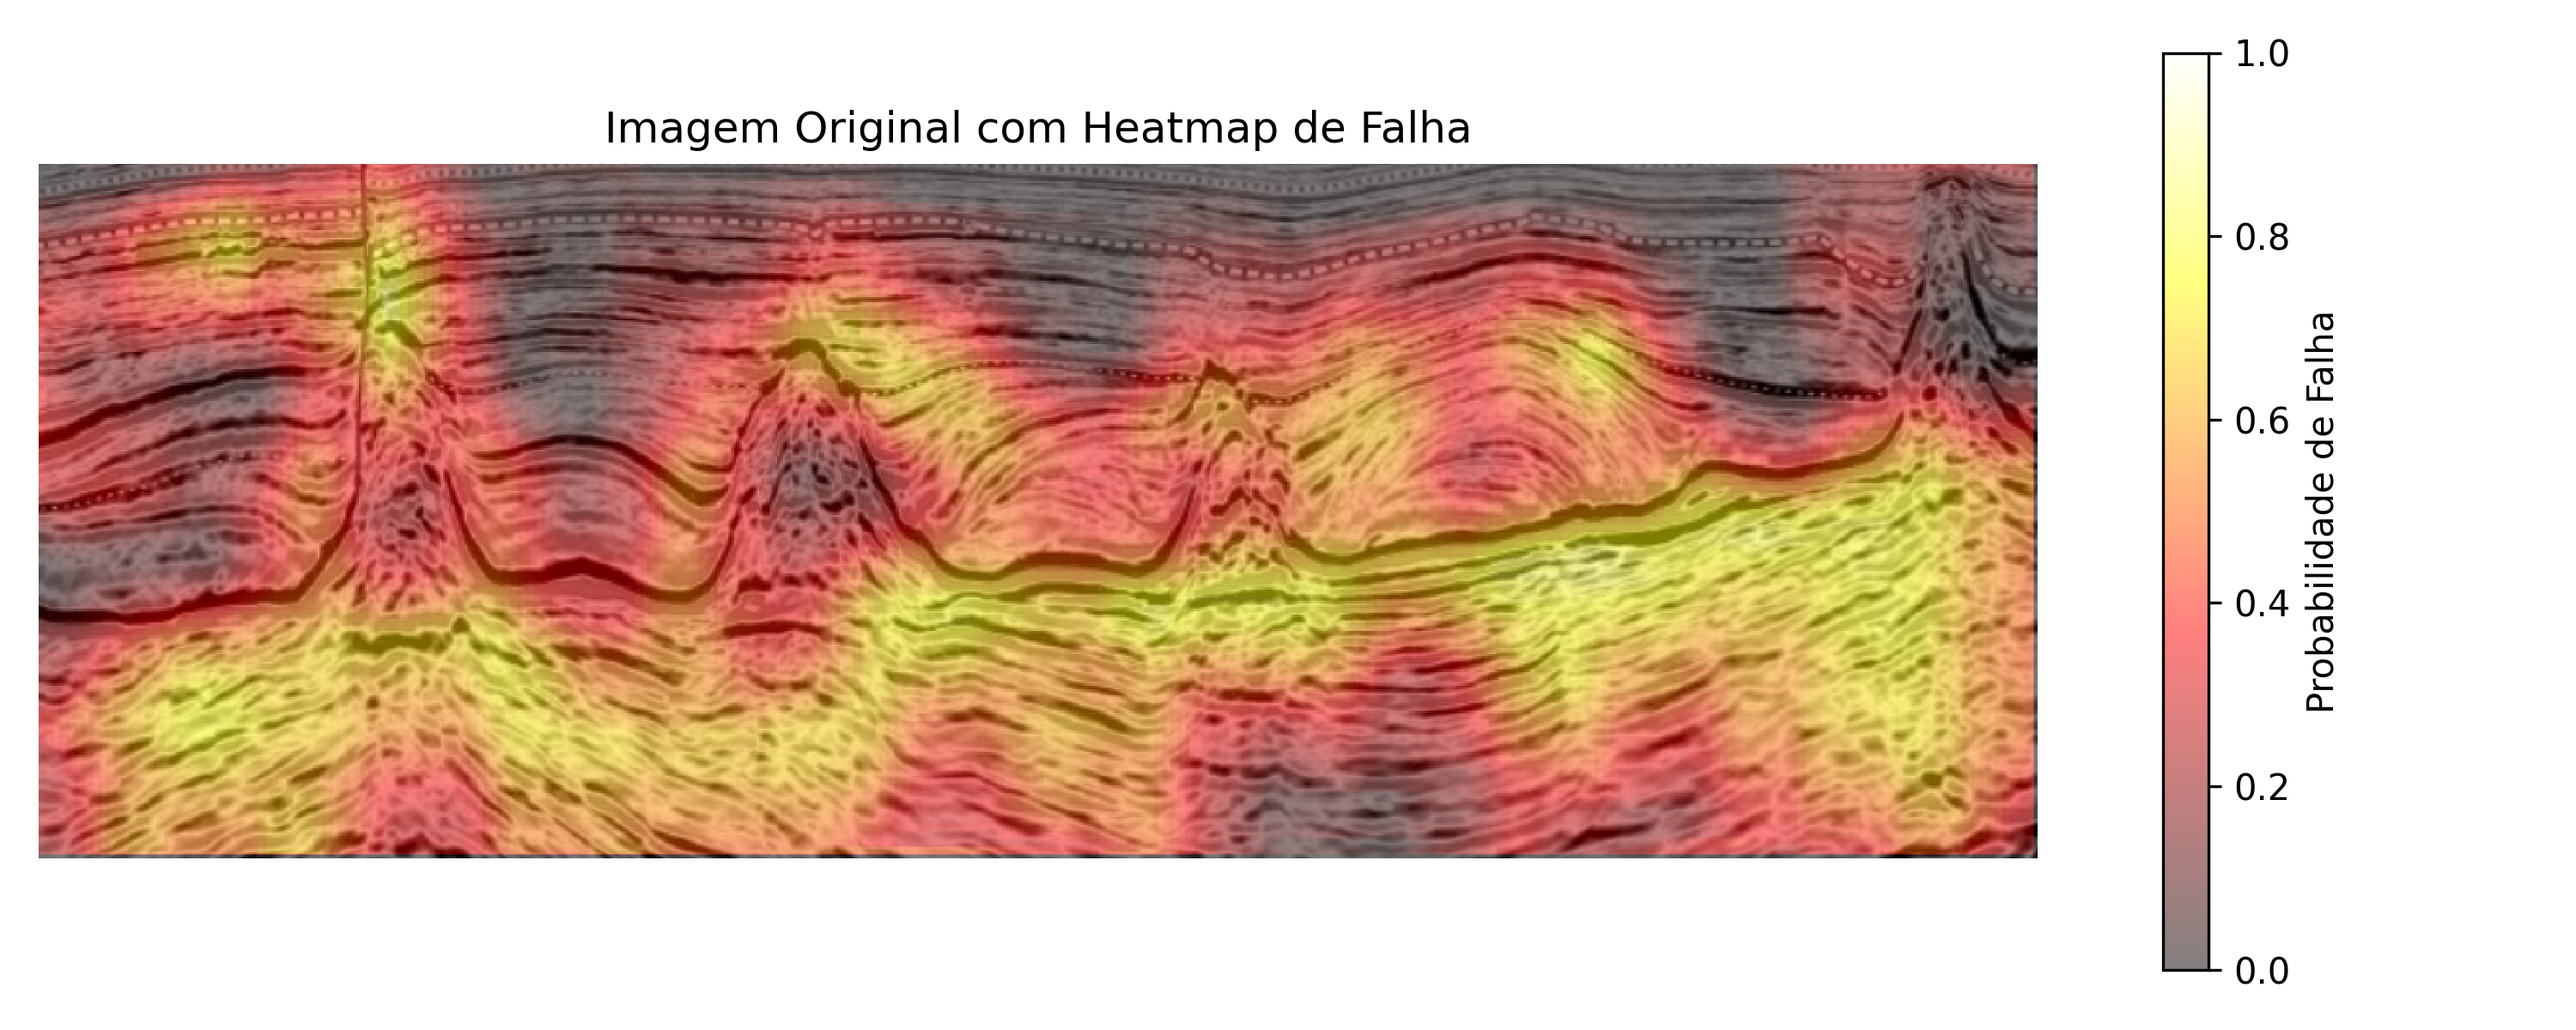
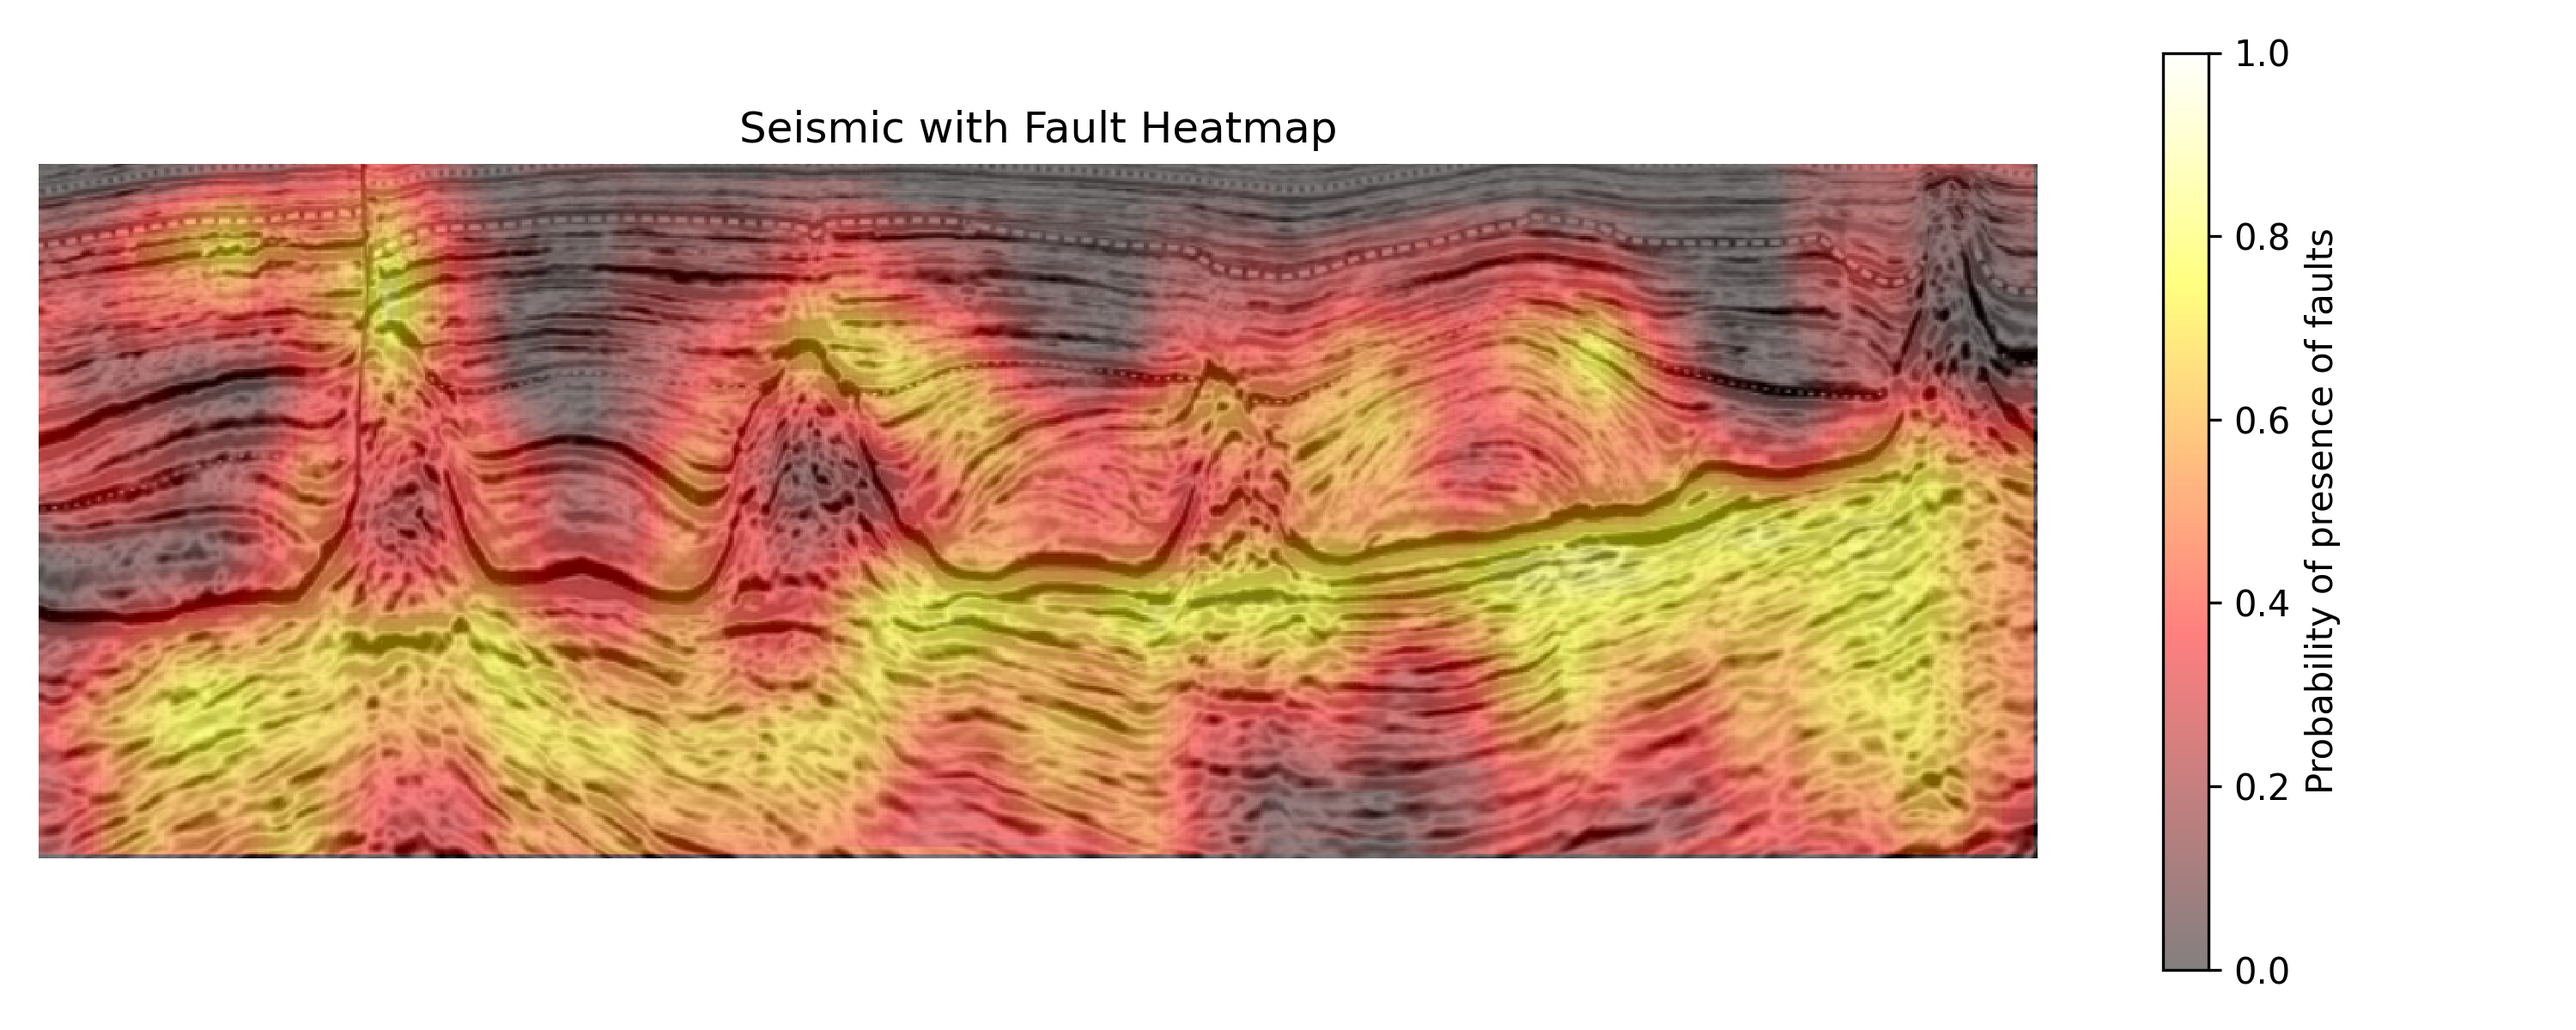
update figures

Changed region(s): [[0.248, 0.0925, 0.589, 0.1542], [0.899, 0.2775, 0.93, 0.6475]]

diff --git a/GFD.py b/GFD.py
@@ -228,8 +228,8 @@ def run_full_inference(image_path, model_path, save_dir, threshold=90):
     # Salva heatmaps com matplotlib
     plt.figure(figsize=(10, 4))
     plt.imshow(fault_map, cmap='hot', vmin=0, vmax=1)
-    plt.colorbar(label='Probabilidade de Falha')
-    plt.title('Heatmap - Falha')
+    plt.colorbar(label='Probability of presence of faults')
+    plt.title('Heatmap - Faults')
     plt.axis('off')
     plt.tight_layout()
     plt.savefig(f"{save_dir}/heatmap_fault_colored.png", dpi=300)
@@ -237,8 +237,8 @@ def run_full_inference(image_path, model_path, save_dir, threshold=90):
 
     plt.figure(figsize=(10, 4))
     plt.imshow(salt_map, cmap='Greens', vmin=0, vmax=1)
-    plt.colorbar(label='Probabilidade de Sal')
-    plt.title('Heatmap - Sal')
+    plt.colorbar(label='Probability of presence of salt domes') 
+    plt.title('Heatmap - Salt')
     plt.axis('off')
     plt.tight_layout()
     plt.savefig(f"{save_dir}/heatmap_salt_colored.png", dpi=300)
@@ -258,8 +258,8 @@ def run_full_inference(image_path, model_path, save_dir, threshold=90):
     plt.figure(figsize=(10, 4))
     plt.imshow(img, cmap='gray', interpolation='none')
     plt.imshow(fault_map, cmap='hot', alpha=0.5, vmin=0, vmax=1)
-    plt.colorbar(label='Probabilidade de Falha')
-    plt.title('Imagem Original com Heatmap de Falha')
+    plt.colorbar(label='Probability of presence of faults')
+    plt.title('Seismic with Fault Heatmap')
     plt.axis('off')
     plt.tight_layout()
     plt.savefig(f"{save_dir}/overlay_fault.png", dpi=300)
@@ -271,8 +271,8 @@ def run_full_inference(image_path, model_path, save_dir, threshold=90):
     plt.figure(figsize=(10, 4))
     plt.imshow(img, cmap='gray', interpolation='none')
     plt.imshow(salt_map, cmap='Greens', alpha=0.5, vmin=0, vmax=1)
-    plt.colorbar(label='Probabilidade de Sal')
-    plt.title('Imagem Original com Heatmap de Sal')
+    plt.colorbar(label='Probability of presence of salt domes')
+    plt.title('Seismic with Salt Heatmap')
     plt.axis('off')
     plt.tight_layout()
     plt.savefig(f"{save_dir}/overlay_salt.png", dpi=300)
